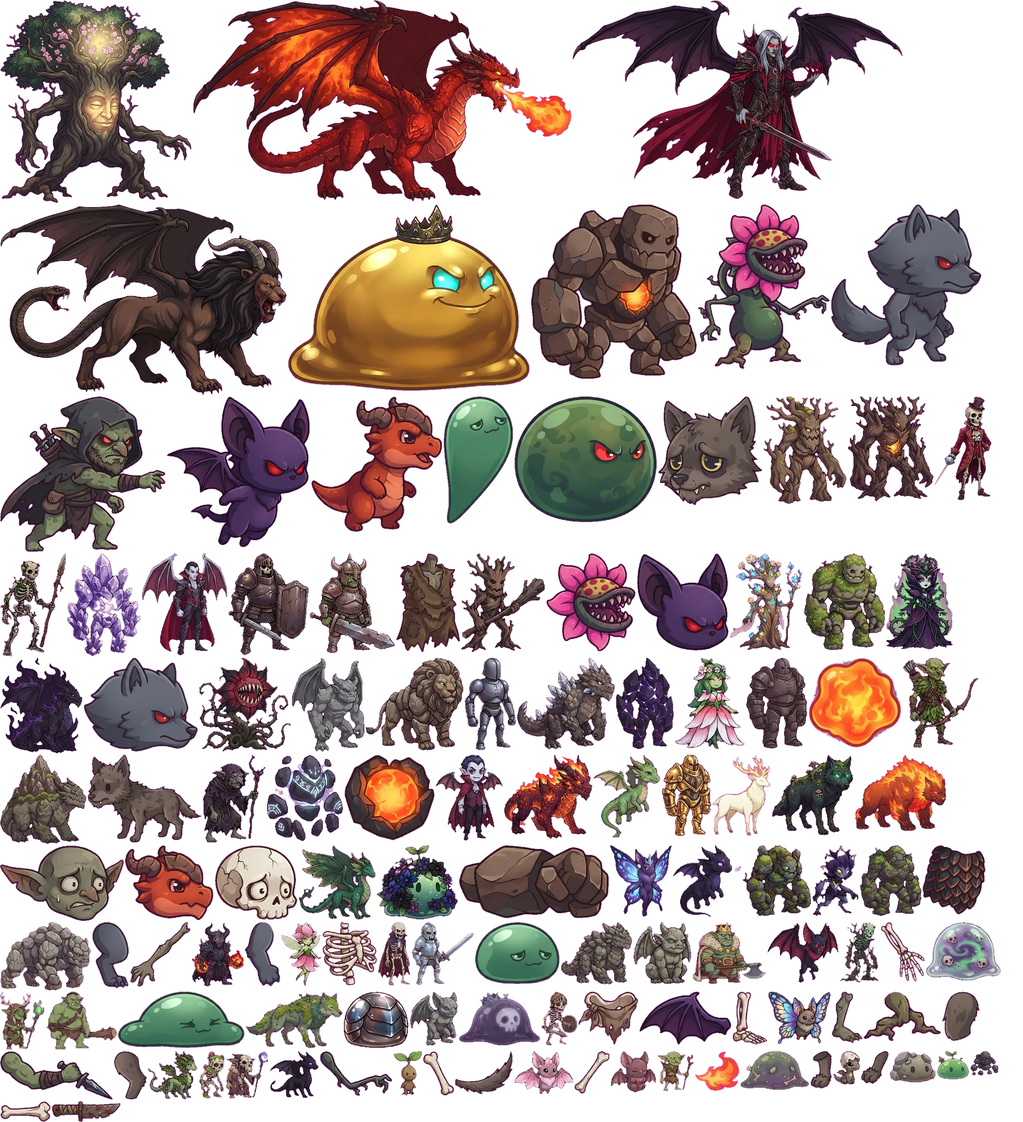
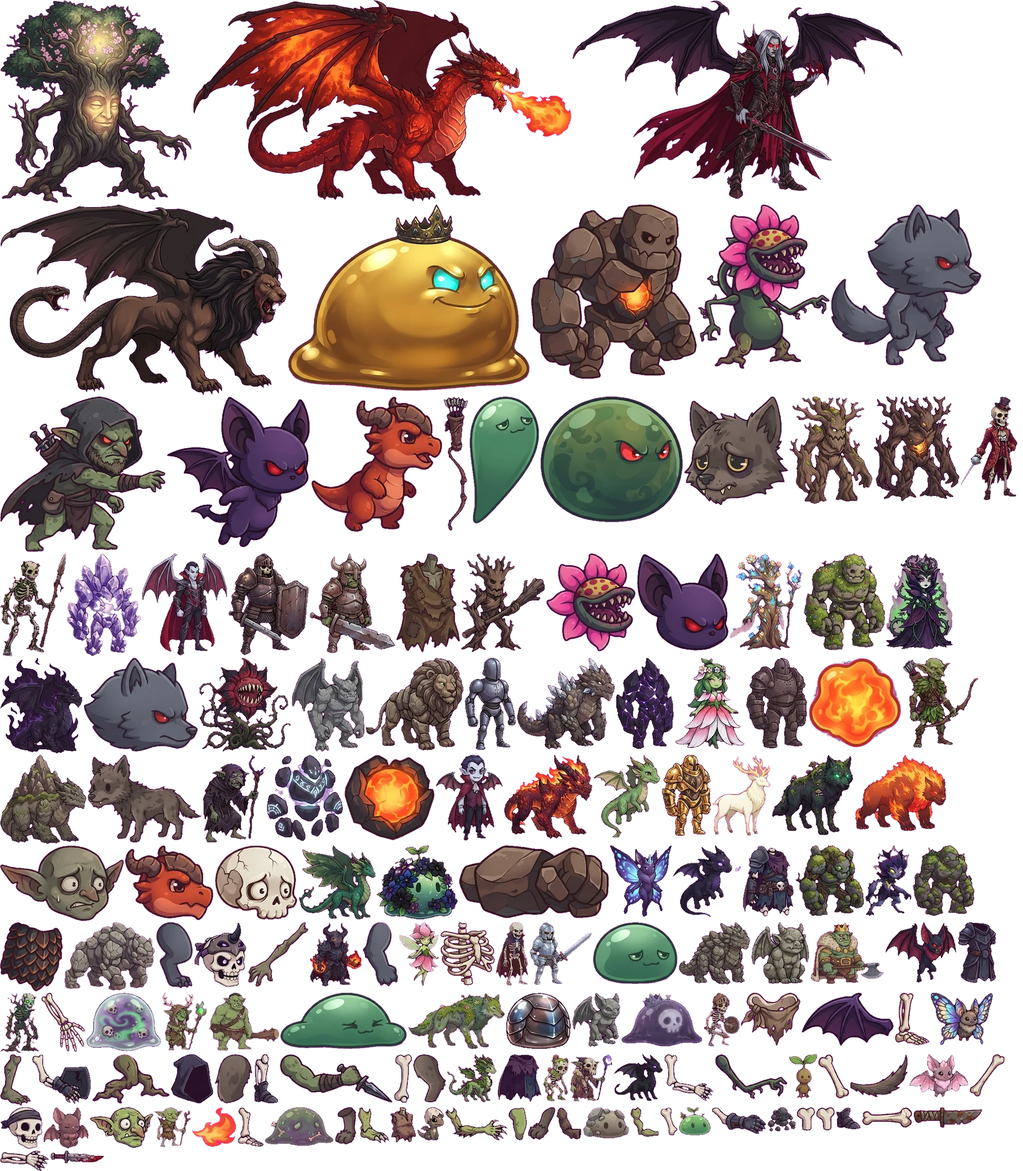
Bone to Beast: rigged part-based animation test (goblin, bone knight, moss skeleton, blood bones)
Claude-Session: https://claude.ai/code/session_01VuDiQoiwkAwkour2auYRX7

diff --git a/bone-to-beast/index.html b/bone-to-beast/index.html
@@ -154,6 +154,7 @@ var FD={
  glRune:['fGlRune',84,'Rune Golem','魔導ゴーレム','Fires rune bolts. Skill: Inferno.','ルーンの魔法弾。スキル：火柱の連撃',230,'Inferno',{ranged:true,shot:'magic',dmg:28,rate:0.22,armor:0.5,life:0.1,maxJumps:2}],
  bsFire:['fBsFire',50,'Flame Beast','火の獣','Burning bites. Skill: Fire Breath.','燃える牙。スキル：火炎ブレス',50,'Fire Breath',{kind:'bite',dmg:20,rate:0.28,range:72,spd:310,burn:true}]};
 var FORMS={};for(var fk in FD){var d=FD[fk];FORMS[fk]={art:d[0],h:d[1],en:d[2],ja:d[3],den:d[4],dja:d[5],hp:d[6],skill:d[7],s:d[8]};}
+FORMS.skKnight.rig='A';FORMS.skKnight.h=70;FORMS.skMoss.rig='C';FORMS.skVamp.rig='D';
 ULTORDER.forEach(function(u){FORMS[u]={ult:true,hp:0};});
 var MIDD={slGrass:['fmSlBloom','Bloom Slime','花スライム'],slRock:['fmSlIron','Iron Slime','鉄スライム'],slZombie:['fmSlGhost','Ghost Slime','怨霊スライム'],skMoss:['fmSkSpear','Vine Spearman','ツタの骨槍兵'],skKnight:['fmSkHeavy','Heavy Bone Knight','骨の重騎士'],skVamp:['fmSkCount','Bone Count','骨の伯爵'],
  gbForest:['fmGbArcher','Goblin Archer','ゴブリン弓兵'],gbHob:['fmGbGeneral','Goblin General','ゴブリン将軍'],gbShaman:['fmGbSorc','Goblin Sorcerer','闇の魔術師ゴブリン'],bsForest:['fmBsWolf','Moss Wolf','苔の大狼'],bsRock:['fmBsLion','Stone Lion','岩の獅子'],bsFire:['fmBsDrag','Flame Drake','炎の竜獣'],
@@ -418,7 +419,7 @@ function rr(g,x,y,w,h,r){g.beginPath();g.moveTo(x+r,y);g.arcTo(x+w,y,x+w,y+h,r);
 function limb(g,x1,y1,x2,y2,w,col,joint){g.strokeStyle=col;g.lineWidth=w;g.lineCap='round';g.beginPath();g.moveTo(x1,y1);g.lineTo(x2,y2);g.stroke();if(joint){g.fillStyle=col;g.beginPath();g.arc(x1,y1,w*0.75,0,7);g.arc(x2,y2,w*0.75,0,7);g.fill();}}
 function shade(hex,a){var n=parseInt(hex.slice(1),16);return 'rgb('+[n>>16,(n>>8)&255,n&255].map(function(v){return Math.max(0,Math.min(255,v+a));}).join(',')+')';}
 // ======================= art (atlas) =======================
-var ATLAS={"uTree":[0,0,384,407],"uDragon":[386,0,758,404],"uVampire":[1146,0,661,399],"uChimera":[0,409,574,382],"uOrichalcum":[576,409,485,374],"eGolem":[1063,409,332,350],"ePlant":[1397,409,264,330],"eWolf":[1663,409,302,323],"eGoblin":[0,793,332,312],"eBat":[334,793,287,302],"eDrake":[623,793,263,272],"slTall":[888,793,140,255],"eSlime":[1030,793,285,252],"bsHead":[1317,793,209,218],"fPlTreant":[1528,793,167,216],"fGlTree":[1697,793,172,210],"fmSkCount":[1871,793,114,208],"fmSkSpear":[0,1107,132,207],"fmGlAmethyst":[134,1107,148,206],"fBtLord":[284,1107,171,205],"fmSkHeavy":[457,1107,161,204],"fmGbGeneral":[620,1107,171,200],"gbTorso":[793,1107,128,199],"fmPlWarrior":[923,1107,168,198],"plantHead":[1093,1107,180,197],"batHead":[1275,1107,184,195],"fPlWarden":[1461,1107,146,194],"fmGlMoss":[1609,1107,163,194],"fmPlQueen":[1774,1107,134,193],"fDrShadow":[0,1316,165,192],"wolfHead":[167,1316,229,188],"fPlBloom":[398,1316,184,188],"fBtFiend":[584,1316,146,188],"fmBsLion":[732,1316,196,186],"fmGlSteel":[930,1316,103,185],"fmDrRock":[1035,1316,196,184],"fGlObs":[1233,1316,116,183],"fmPlPriest":[1351,1316,140,183],"fGlIron":[1493,1316,123,182],"slimeCore":[1618,1316,187,181],"fmGbArcher":[1807,1316,152,181],"fDrEarth":[0,1510,173,179],"bsFull":[175,1510,229,176],"fmGbSorc":[406,1510,126,176],"fGlRune":[534,1510,153,173],"golemCore":[689,1510,181,172],"fmBtVamp":[872,1510,135,172],"fmBsDrag":[1009,1510,177,169],"fmDrYoung":[1188,1510,134,166],"fGlOri":[1324,1510,100,163],"fBsSacred":[1426,1510,117,163],"fmBsWolf":[1545,1510,164,162],"fBsFire":[1711,1510,184,153],"gbHead":[0,1691,248,152],"drakeHead":[250,1691,178,151],"skSkull":[430,1691,166,150],"fDrEmerald":[598,1691,154,149],"fmSlBloom":[754,1691,163,149],"golemFist":[919,1691,300,147,12.1,72.6,289.2,79.2],"fBtMonarch":[1221,1691,124,144],"fmDrBlack":[1347,1691,137,144],"fPlRoot":[1486,1691,138,142],"fPlShade":[1626,1691,93,142],"fGlMoss":[1721,1691,124,142],"drakeScales":[1847,1691,126,139],"fBsRock":[0,1845,182,137],"wolfLeg":[184,1845,74,133,26.5,4.0,54.5,126.5],"gbFore":[260,1845,122,130,113.1,7.4,8.5,118.8],"fGbDemon":[384,1845,104,130],"wolfArm":[490,1845,71,129,32.6,4.2,50.4,121.8],"fPlPetal":[563,1845,80,128],"skRibs":[645,1845,110,127],"fSkVamp":[757,1845,65,127],"fSkSteel":[824,1845,125,126],"slRest":[951,1845,170,125],"fDrRock":[1123,1845,143,125],"fmBtGarg":[1268,1845,116,124],"fGbKing":[1386,1845,148,124],"fBtBlood":[1536,1845,143,122],"fSkWraith":[1681,1845,80,121],"skFore":[1763,1845,89,119,10.1,6.5,74.1,108.9],"fmSlGhost":[1854,1845,150,118],"fGbDruid":[0,1984,90,117],"fGbHob":[92,1984,142,117],"slFlat":[236,1984,254,114],"fBsForest":[492,1984,194,114],"fmSlIron":[688,1984,130,113],"fBtGarg":[820,1984,97,109],"fSlDeath":[919,1984,162,108],"fSkKnight":[1083,1984,73,108],"skPelvis":[1158,1984,120,107],"batWing":[1280,1984,184,107],"skShin":[1466,1984,70,106,20.7,3.0,53.8,101.3],"fmBtButter":[1538,1984,125,105],"gbShin":[1665,1984,62,104,27.3,3.6,39.8,97.9],"plantRoots":[1729,1984,155,100],"bsBackU":[1886,1984,75,99,49.3,4.9,21.0,93.2],"goblinArm":[0,2103,226,98,6.0,19.2,211.4,86.9],"bsFrontU":[228,2103,66,97,15.7,4.4,38.2,92.4],"fDrForest":[296,2103,99,97],"fSkMoss":[397,2103,53,95],"fGbShaman":[452,2103,86,95],"fDrBlack":[540,2103,98,94],"plantVine":[640,2103,146,90,4.4,9.7,136.3,67.9],"stSprout":[788,2103,57,90],"skThigh":[847,2103,62,89,10.1,6.2,52.8,83.4],"bsTail":[911,2103,116,87],"fBtFairy":[1029,2103,119,87],"skUpper":[1150,2103,71,86,63.5,5.3,7.7,78.3],"stBat":[1223,2103,91,83],"fGbForest":[1316,2103,73,81],"fire":[1391,2103,89,80],"fSlZombie":[1482,2103,138,79],"bsBackL":[1622,2103,44,75,29.2,2.4,15.6,71.4],"stHatch":[1668,2103,54,68],"bsFrontL":[1724,2103,55,66,49.9,3.1,6.6,58.9],"fSlRock":[1781,2103,93,63],"fSlGrass":[1876,2103,64,57],"stPebble":[1942,2103,57,49],"skClub":[0,2203,102,42,3.5,24.2,98.1,19.7],"gbKnife":[104,2203,138,42,3.0,17.2,130.5,10.1]},ART=new Image(),ARTOK=false;ART.src='art/atlas.webp?v=6';
+var ATLAS={"uTree":[0,0,384,407],"uDragon":[386,0,758,404],"uVampire":[1146,0,661,399],"uChimera":[0,409,574,382],"uOrichalcum":[576,409,485,374],"eGolem":[1063,409,332,350],"ePlant":[1397,409,264,330],"eWolf":[1663,409,302,323],"eGoblin":[0,793,332,312],"eBat":[334,793,287,302],"eDrake":[623,793,263,272],"rC_bow":[888,793,50,269],"slTall":[940,793,140,255],"eSlime":[1082,793,285,252],"bsHead":[1369,793,209,218],"fPlTreant":[1580,793,167,216],"fGlTree":[1749,793,172,210],"fmSkCount":[1923,793,114,208],"fmSkSpear":[0,1107,132,207],"fmGlAmethyst":[134,1107,148,206],"fBtLord":[284,1107,171,205],"fmSkHeavy":[457,1107,161,204],"fmGbGeneral":[620,1107,171,200],"gbTorso":[793,1107,128,199],"fmPlWarrior":[923,1107,168,198],"plantHead":[1093,1107,180,197],"batHead":[1275,1107,184,195],"fPlWarden":[1461,1107,146,194],"fmGlMoss":[1609,1107,163,194],"fmPlQueen":[1774,1107,134,193],"fDrShadow":[0,1316,165,192],"wolfHead":[167,1316,229,188],"fPlBloom":[398,1316,184,188],"fBtFiend":[584,1316,146,188],"fmBsLion":[732,1316,196,186],"fmGlSteel":[930,1316,103,185],"fmDrRock":[1035,1316,196,184],"fGlObs":[1233,1316,116,183],"fmPlPriest":[1351,1316,140,183],"fGlIron":[1493,1316,123,182],"slimeCore":[1618,1316,187,181],"fmGbArcher":[1807,1316,152,181],"fDrEarth":[0,1510,173,179],"bsFull":[175,1510,229,176],"fmGbSorc":[406,1510,126,176],"fGlRune":[534,1510,153,173],"golemCore":[689,1510,181,172],"fmBtVamp":[872,1510,135,172],"fmBsDrag":[1009,1510,177,169],"fmDrYoung":[1188,1510,134,166],"fGlOri":[1324,1510,100,163],"fBsSacred":[1426,1510,117,163],"fmBsWolf":[1545,1510,164,162],"fBsFire":[1711,1510,184,153],"gbHead":[0,1691,248,152],"drakeHead":[250,1691,178,151],"skSkull":[430,1691,166,150],"fDrEmerald":[598,1691,154,149],"fmSlBloom":[754,1691,163,149],"golemFist":[919,1691,300,147,12.1,72.6,289.2,79.2],"fBtMonarch":[1221,1691,124,144],"fmDrBlack":[1347,1691,137,144],"rA_torso":[1486,1691,104,143],"fPlRoot":[1592,1691,138,142],"fPlShade":[1732,1691,93,142],"fGlMoss":[1827,1691,124,142],"drakeScales":[0,1845,126,139],"fBsRock":[128,1845,182,137],"wolfLeg":[312,1845,74,133,26.5,4.0,54.5,126.5],"rA_head":[388,1845,106,131],"gbFore":[496,1845,122,130,113.1,7.4,8.5,118.8],"fGbDemon":[620,1845,104,130],"wolfArm":[726,1845,71,129,32.6,4.2,50.4,121.8],"fPlPetal":[799,1845,80,128],"skRibs":[881,1845,110,127],"fSkVamp":[993,1845,65,127],"fSkSteel":[1060,1845,125,126],"slRest":[1187,1845,170,125],"fDrRock":[1359,1845,143,125],"fmBtGarg":[1504,1845,116,124],"fGbKing":[1622,1845,148,124],"fBtBlood":[1772,1845,143,122],"rD_torso":[1917,1845,78,122],"fSkWraith":[0,1986,80,121],"skFore":[82,1986,89,119,10.1,6.5,74.1,108.9],"fmSlGhost":[173,1986,150,118],"fGbDruid":[325,1986,90,117],"fGbHob":[417,1986,142,117],"slFlat":[561,1986,254,114],"fBsForest":[817,1986,194,114],"fmSlIron":[1013,1986,130,113],"fBtGarg":[1145,1986,97,109],"fSlDeath":[1244,1986,162,108],"fSkKnight":[1408,1986,73,108],"skPelvis":[1483,1986,120,107],"batWing":[1605,1986,184,107],"skShin":[1791,1986,70,106,20.7,3.0,53.8,101.3],"fmBtButter":[1863,1986,125,105],"gbShin":[0,2109,62,104,27.3,3.6,39.8,97.9],"rA_arm2":[64,2109,119,101,12.0,7.4,113.6,59.2],"plantRoots":[185,2109,155,100],"rD_head":[342,2109,86,100],"bsBackU":[430,2109,75,99,49.3,4.9,21.0,93.2],"rA_shin":[507,2109,51,99,23.0,4.4,31.5,95.1],"goblinArm":[560,2109,226,98,6.0,19.2,211.4,86.9],"rA_thigh":[788,2109,37,98,21.2,3.1,18.8,93.5],"bsFrontU":[827,2109,66,97,15.7,4.4,38.2,92.4],"fDrForest":[895,2109,99,97],"rC_torso":[996,2109,88,97],"fSkMoss":[1086,2109,53,95],"fGbShaman":[1141,2109,86,95],"fDrBlack":[1229,2109,98,94],"rA_arm":[1329,2109,100,94,12.7,3.6,91.4,75.1],"plantVine":[1431,2109,146,90,4.4,9.7,136.3,67.9],"stSprout":[1579,2109,57,90],"skThigh":[1638,2109,62,89,10.1,6.2,52.8,83.4],"bsTail":[1702,2109,116,87],"fBtFairy":[1820,2109,119,87],"skUpper":[1941,2109,71,86,63.5,5.3,7.7,78.3],"rC_head":[0,2215,85,84],"stBat":[87,2215,91,83],"rB_head":[180,2215,127,82],"fGbForest":[309,2215,73,81],"fire":[384,2215,89,80],"rC_shin":[475,2215,53,80,9.1,4.2,40.7,76.0],"fSlZombie":[530,2215,138,79],"bsBackL":[670,2215,44,75,29.2,2.4,15.6,71.4],"rB_shin":[716,2215,63,73,10.2,5.5,42.6,66.1],"rB_torso":[781,2215,52,71],"stHatch":[835,2215,54,68],"rB_fore":[891,2215,125,67,5.4,12.5,116.1,46.0],"rB_thigh":[1018,2215,37,67,20.5,3.3,21.7,62.5],"bsFrontL":[1057,2215,55,66,49.9,3.1,6.6,58.9],"rD_upper":[1114,2215,51,65,9.6,4.4,37.0,61.1],"fSlRock":[1167,2215,93,63],"rB_upper":[1262,2215,58,60,12.0,3.8,52.5,53.7],"rC_upper":[1322,2215,35,58,14.2,3.4,22.3,53.9],"fSlGrass":[1359,2215,64,57],"rD_fore":[1425,2215,109,54,5.7,6.9,103.1,36.0],"stPebble":[1536,2215,57,49],"rD_thigh":[1595,2215,37,48,21.2,2.5,19.7,44.5],"rC_thigh":[1634,2215,38,47,21.6,2.4,21.6,43.8],"rD_shin":[1674,2215,49,45,21.8,3.7,33.6,41.7],"skClub":[1725,2215,102,42,3.5,24.2,98.1,19.7],"gbKnife":[1829,2215,138,42,3.0,17.2,130.5,10.1],"rC_fore":[0,2301,98,42,4.3,16.7,90.3,19.9],"rB_knife":[100,2301,109,28,3.7,12.1,101.7,14.2]},ART=new Image(),ARTOK=false;ART.src='art/atlas.webp?v=7';
 function aspr(k){return ATLAS[k];}
 // draw a limb image so that its end points land on A and B
 function seg(g,k,ax,ay,bx,by,ext){var a=ATLAS[k];if(!a||!ARTOK)return;var x0=a[4],y0=a[5],x1=a[6],y1=a[7],L0=Math.hypot(x1-x0,y1-y0),L=Math.hypot(bx-ax,by-ay)||0.01,s=L/L0*(ext||1);
@@ -431,7 +432,7 @@ function sprDef(g,k,x,y,h,fx,fy,lean,leg,ph,wob){var a=ATLAS[k];if(!a||!ARTOK)re
 function tube(g,ax,ay,bx,by,w,col){g.lineCap='round';g.strokeStyle='#2b2620';g.lineWidth=w+1.6;g.beginPath();g.moveTo(ax,ay);g.lineTo(bx,by);g.stroke();g.strokeStyle=col;g.lineWidth=w;g.stroke();}
 var HEADS={wolfHead:[30,0.45,0.6],batHead:[30,0.5,0.6],plantHead:[33,0.45,0.6],drakeHead:[27,0.4,0.6]};
 var CORES={golemCore:16,slimeCore:15,drakeScales:20};
-function drawBody(g,p,P,st,u){if(!u&&START_ART[st]){var SA=START_ART[st];drawArt(g,p,SA[0],SA[1],st==='pebble',st==='hatch');return;}if(u&&FORMS[u]&&!FORMS[u].ult){drawForm(g,p,u);return;}if(u){drawUlt(g,p,u,false);return;}if(st==='beast'){drawQuad(g,p,P);return;}if(st==='slime'){drawSlime(g,p,P);return;}drawHumanoid(g,p,P,st);}
+function drawBody(g,p,P,st,u){if(!u&&st==='goblin'){drawRig(g,p,'B',60);return;}if(!u&&START_ART[st]){var SA=START_ART[st];drawArt(g,p,SA[0],SA[1],st==='pebble',st==='hatch');return;}if(u&&FORMS[u]&&!FORMS[u].ult){drawForm(g,p,u);return;}if(u){drawUlt(g,p,u,false);return;}if(st==='beast'){drawQuad(g,p,P);return;}if(st==='slime'){drawSlime(g,p,P);return;}drawHumanoid(g,p,P,st);}
 function shadow(g,w){g.fillStyle='rgba(0,0,0,.35)';g.beginPath();g.ellipse(0,0,w,4,0,0,7);g.fill();}
 function wingsArt(g,x,y,glide,ground,sc){var fl=glide?0.15:Math.sin(performance.now()/90)*0.35*(ground?0.3:1);sc=sc||1;
   spr(g,'batWing',x+3,y,24*sc,0.9,0.3,-0.25-fl,1,1);spr(g,'batWing',x,y-2,26*sc,0.9,0.3,0.1+fl*0.6,1,1);}
@@ -462,6 +463,22 @@ function drawHumanoid(g,p,P,st){var h=62,wk=p.walk||0,run=p.ground?Math.sin(wk*2
   if(P.core)spr(g,P.core,1,shY+7,CORES[P.core],0.5,0.5);
   if(P.head)headArt(g,P.head,2,headY);else if(gob)spr(g,'gbHead',2,headY+2,22,0.5,0.6);else spr(g,'skSkull',2,headY+1,27,0.5,0.62);
   arm(1);g.restore();}
+var RIGS={A:{head:['rA_head',27],torso:['rA_torso',31],arm:'rA_arm',arm2:'rA_arm2',thigh:'rA_thigh',shin:'rA_shin'},
+ B:{head:['rB_head',22],torso:['rB_torso',22],upper:'rB_upper',fore:'rB_fore',thigh:'rB_thigh',shin:'rB_shin',knife:'rB_knife'},
+ C:{head:['rC_head',23],torso:['rC_torso',27],upper:'rC_upper',fore:'rC_fore',thigh:'rC_thigh',shin:'rC_shin',bow:'rC_bow'},
+ D:{head:['rD_head',26],torso:['rD_torso',29],upper:'rD_upper',fore:'rD_fore',thigh:'rD_thigh',boot:'rD_shin'}};
+function drawRig(g,p,id,H){var Rg=RIGS[id],wk=p.walk||0,mv=Math.min(1,Math.abs(p.vx||0)/120);p._mv=(p._mv||0)+(mv-(p._mv||0))*0.15;mv=p._mv;
+  var t=performance.now()/1000,run=p.ground?Math.sin(wk*2)*mv:0.6,sw=p.swing>0?1-p.swing/0.2:0,bob=p.ground?(1-Math.cos(wk*4))*0.6*mv+Math.sin(t*2.2)*0.4*(1-mv):0;
+  g.save();g.translate(p.x,p.y);g.scale(p.face*(H/66),H/66);shadow(g,15);g.translate(0,-bob);var hipY=-25,shY=-42,headY=-55;
+  function leg(i){var s=i?1:-1,a=run*0.65*s,kx=Math.sin(a)*11,ky=hipY+11,fx=kx+Math.sin(a-0.5)*10,fy=bob;if(!p.ground){kx=i?7:-3;ky=hipY+9;fx=kx-4;fy=hipY+22;}
+    if(Rg.boot){seg(g,Rg.thigh,i?1:-1,hipY,kx,ky);seg(g,Rg.thigh,kx,ky,fx+1,fy-5);spr(g,Rg.boot,fx+2,fy+1,10,0.45,0.95);return;}seg(g,Rg.thigh,i?1:-1,hipY,kx,ky);seg(g,Rg.shin,kx,ky,fx+2,fy);}
+  var swingA=p.swing>0?(-1.9+sw*3.0):Math.sin(wk*2)*0.45*mv+Math.sin(t*2.2)*0.05;
+  function arm(i){var sx=i?2:-2,sy=shY,a=i?swingA:-swingA*0.6+0.25;
+    if(Rg.arm){var k=i?Rg.arm2:Rg.arm;seg(g,k,sx,sy,sx+Math.sin(a+0.3)*19,sy+Math.cos(a+0.3)*19);return;}
+    var ex=sx+Math.sin(a)*10,ey=sy+Math.cos(a)*10,hx=ex+Math.sin(a+0.6)*12,hy=ey+Math.cos(a+0.6)*12;seg(g,Rg.upper,sx,sy,ex,ey);seg(g,Rg.fore,ex,ey,hx,hy);
+    if(i&&Rg.knife){var an=a+0.6;seg(g,Rg.knife,hx,hy,hx+Math.sin(an+1.3)*15,hy+Math.cos(an+1.3)*15);}
+    if(i&&Rg.bow)spr(g,Rg.bow,hx,hy,34,0.5,0.5,0.1);}
+  arm(0);leg(0);leg(1);spr(g,Rg.torso[0],0,shY-5,Rg.torso[1],0.5,0.04);spr(g,Rg.head[0],2,headY+Math.sin(t*2.2)*0.4,Rg.head[1],0.5,0.6);arm(1);g.restore();}
 function drawSlime(g,p,P){var t=performance.now()/1000,wk=p.walk||0,lift=P.legs?14:0;g.save();g.translate(p.x,p.y);g.scale(p.face,1);shadow(g,18);
   if(P.legs==='plantLegs')spr(g,'plantRoots',0,-15,18,0.5,0.05);
   else if(P.legs==='wolfLegs'){var r=p.ground?Math.sin(wk*2)*0.5:0.4;seg(g,'wolfLeg',-5,-16,-5+Math.sin(r)*10,0);seg(g,'wolfLeg',5,-16,5-Math.sin(r)*10,0);}
@@ -485,7 +502,7 @@ function animSprite(g,p,art,h,fx,fy,quad,t,wk){var mv=Math.min(1,Math.abs(p.vx||
   p._mv=(p._mv||0)+(mv-(p._mv||0))*0.12;mv=p._mv;
   var bob=p.ground?(1-Math.cos(wk*(quad?4.4:3.6)))*0.5*(quad?2:1.6)*mv+Math.sin(t*2.2)*0.6*(1-mv):0,br=1+Math.sin(t*2.2)*0.012*(1-mv);
   g.translate(sw*h*0.06,-bob);if(p.landT>0){var lk=p.landT/0.14;g.scale(1+0.05*lk,1-0.05*lk);}
-  g.scale(1+sw*0.03,br);spr(g,art,0,1,h,fx,fy);}function drawForm(g,p,id){var F=FORMS[id];drawArt(g,p,F.art,F.h,id.indexOf('sl')===0,id.indexOf('bs')===0||id.indexOf('dr')===0);}
+  g.scale(1+sw*0.03,br);spr(g,art,0,1,h,fx,fy);}function drawForm(g,p,id){var F=FORMS[id];if(F.rig){drawRig(g,p,F.rig,F.h);return;}drawArt(g,p,F.art,F.h,id.indexOf('sl')===0,id.indexOf('bs')===0||id.indexOf('dr')===0);}
 function drawArt(g,p,art,h,sl,quad){var F={art:art,h:h},t=performance.now()/1000,wk=p.walk||0;g.save();g.translate(p.x,p.y);g.scale(p.face,1);
   var a=ATLAS[F.art];shadow(g,Math.min(36,F.h*(a?a[2]/a[3]:1)*0.42));
   if(sl){var q=!p.ground?(p.vy<0?1.18:0.95):p.landT>0?0.72:1+Math.sin(t*6+wk*3)*0.06;p._q=(p._q||1)+(q-(p._q||1))*0.25;g.scale(1/p._q,p._q);spr(g,F.art,0,1,F.h,0.5,1);}

diff --git a/bone-to-beast/survivors.html b/bone-to-beast/survivors.html
@@ -152,6 +152,7 @@ var FD={
  glRune:['fGlRune',84,'Rune Golem','魔導ゴーレム','Fires rune bolts. Skill: Inferno.','ルーンの魔法弾。スキル：火柱の連撃',230,'Inferno',{ranged:true,shot:'magic',dmg:28,rate:0.22,armor:0.5,life:0.1,maxJumps:2}],
  bsFire:['fBsFire',50,'Flame Beast','火の獣','Burning bites. Skill: Fire Breath.','燃える牙。スキル：火炎ブレス',50,'Fire Breath',{kind:'bite',dmg:20,rate:0.28,range:72,spd:310,burn:true}]};
 var FORMS={};for(var fk in FD){var d=FD[fk];FORMS[fk]={art:d[0],h:d[1],en:d[2],ja:d[3],den:d[4],dja:d[5],hp:d[6],skill:d[7],s:d[8]};}
+FORMS.skKnight.rig='A';FORMS.skKnight.h=70;FORMS.skMoss.rig='C';FORMS.skVamp.rig='D';
 ULTORDER.forEach(function(u){FORMS[u]={ult:true,hp:0};});
 var MIDD={slGrass:['fmSlBloom','Bloom Slime','花スライム'],slRock:['fmSlIron','Iron Slime','鉄スライム'],slZombie:['fmSlGhost','Ghost Slime','怨霊スライム'],skMoss:['fmSkSpear','Vine Spearman','ツタの骨槍兵'],skKnight:['fmSkHeavy','Heavy Bone Knight','骨の重騎士'],skVamp:['fmSkCount','Bone Count','骨の伯爵'],
  gbForest:['fmGbArcher','Goblin Archer','ゴブリン弓兵'],gbHob:['fmGbGeneral','Goblin General','ゴブリン将軍'],gbShaman:['fmGbSorc','Goblin Sorcerer','闇の魔術師ゴブリン'],bsForest:['fmBsWolf','Moss Wolf','苔の大狼'],bsRock:['fmBsLion','Stone Lion','岩の獅子'],bsFire:['fmBsDrag','Flame Drake','炎の竜獣'],
@@ -273,7 +274,7 @@ function rr(g,x,y,w,h,r){g.beginPath();g.moveTo(x+r,y);g.arcTo(x+w,y,x+w,y+h,r);
 function limb(g,x1,y1,x2,y2,w,col,joint){g.strokeStyle=col;g.lineWidth=w;g.lineCap='round';g.beginPath();g.moveTo(x1,y1);g.lineTo(x2,y2);g.stroke();if(joint){g.fillStyle=col;g.beginPath();g.arc(x1,y1,w*0.75,0,7);g.arc(x2,y2,w*0.75,0,7);g.fill();}}
 function shade(hex,a){var n=parseInt(hex.slice(1),16);return 'rgb('+[n>>16,(n>>8)&255,n&255].map(function(v){return Math.max(0,Math.min(255,v+a));}).join(',')+')';}
 // ======================= art (atlas) =======================
-var ATLAS={"uTree":[0,0,384,407],"uDragon":[386,0,758,404],"uVampire":[1146,0,661,399],"uChimera":[0,409,574,382],"uOrichalcum":[576,409,485,374],"eGolem":[1063,409,332,350],"ePlant":[1397,409,264,330],"eWolf":[1663,409,302,323],"eGoblin":[0,793,332,312],"eBat":[334,793,287,302],"eDrake":[623,793,263,272],"slTall":[888,793,140,255],"eSlime":[1030,793,285,252],"bsHead":[1317,793,209,218],"fPlTreant":[1528,793,167,216],"fGlTree":[1697,793,172,210],"fmSkCount":[1871,793,114,208],"fmSkSpear":[0,1107,132,207],"fmGlAmethyst":[134,1107,148,206],"fBtLord":[284,1107,171,205],"fmSkHeavy":[457,1107,161,204],"fmGbGeneral":[620,1107,171,200],"gbTorso":[793,1107,128,199],"fmPlWarrior":[923,1107,168,198],"plantHead":[1093,1107,180,197],"batHead":[1275,1107,184,195],"fPlWarden":[1461,1107,146,194],"fmGlMoss":[1609,1107,163,194],"fmPlQueen":[1774,1107,134,193],"fDrShadow":[0,1316,165,192],"wolfHead":[167,1316,229,188],"fPlBloom":[398,1316,184,188],"fBtFiend":[584,1316,146,188],"fmBsLion":[732,1316,196,186],"fmGlSteel":[930,1316,103,185],"fmDrRock":[1035,1316,196,184],"fGlObs":[1233,1316,116,183],"fmPlPriest":[1351,1316,140,183],"fGlIron":[1493,1316,123,182],"slimeCore":[1618,1316,187,181],"fmGbArcher":[1807,1316,152,181],"fDrEarth":[0,1510,173,179],"bsFull":[175,1510,229,176],"fmGbSorc":[406,1510,126,176],"fGlRune":[534,1510,153,173],"golemCore":[689,1510,181,172],"fmBtVamp":[872,1510,135,172],"fmBsDrag":[1009,1510,177,169],"fmDrYoung":[1188,1510,134,166],"fGlOri":[1324,1510,100,163],"fBsSacred":[1426,1510,117,163],"fmBsWolf":[1545,1510,164,162],"fBsFire":[1711,1510,184,153],"gbHead":[0,1691,248,152],"drakeHead":[250,1691,178,151],"skSkull":[430,1691,166,150],"fDrEmerald":[598,1691,154,149],"fmSlBloom":[754,1691,163,149],"golemFist":[919,1691,300,147,12.1,72.6,289.2,79.2],"fBtMonarch":[1221,1691,124,144],"fmDrBlack":[1347,1691,137,144],"fPlRoot":[1486,1691,138,142],"fPlShade":[1626,1691,93,142],"fGlMoss":[1721,1691,124,142],"drakeScales":[1847,1691,126,139],"fBsRock":[0,1845,182,137],"wolfLeg":[184,1845,74,133,26.5,4.0,54.5,126.5],"gbFore":[260,1845,122,130,113.1,7.4,8.5,118.8],"fGbDemon":[384,1845,104,130],"wolfArm":[490,1845,71,129,32.6,4.2,50.4,121.8],"fPlPetal":[563,1845,80,128],"skRibs":[645,1845,110,127],"fSkVamp":[757,1845,65,127],"fSkSteel":[824,1845,125,126],"slRest":[951,1845,170,125],"fDrRock":[1123,1845,143,125],"fmBtGarg":[1268,1845,116,124],"fGbKing":[1386,1845,148,124],"fBtBlood":[1536,1845,143,122],"fSkWraith":[1681,1845,80,121],"skFore":[1763,1845,89,119,10.1,6.5,74.1,108.9],"fmSlGhost":[1854,1845,150,118],"fGbDruid":[0,1984,90,117],"fGbHob":[92,1984,142,117],"slFlat":[236,1984,254,114],"fBsForest":[492,1984,194,114],"fmSlIron":[688,1984,130,113],"fBtGarg":[820,1984,97,109],"fSlDeath":[919,1984,162,108],"fSkKnight":[1083,1984,73,108],"skPelvis":[1158,1984,120,107],"batWing":[1280,1984,184,107],"skShin":[1466,1984,70,106,20.7,3.0,53.8,101.3],"fmBtButter":[1538,1984,125,105],"gbShin":[1665,1984,62,104,27.3,3.6,39.8,97.9],"plantRoots":[1729,1984,155,100],"bsBackU":[1886,1984,75,99,49.3,4.9,21.0,93.2],"goblinArm":[0,2103,226,98,6.0,19.2,211.4,86.9],"bsFrontU":[228,2103,66,97,15.7,4.4,38.2,92.4],"fDrForest":[296,2103,99,97],"fSkMoss":[397,2103,53,95],"fGbShaman":[452,2103,86,95],"fDrBlack":[540,2103,98,94],"plantVine":[640,2103,146,90,4.4,9.7,136.3,67.9],"stSprout":[788,2103,57,90],"skThigh":[847,2103,62,89,10.1,6.2,52.8,83.4],"bsTail":[911,2103,116,87],"fBtFairy":[1029,2103,119,87],"skUpper":[1150,2103,71,86,63.5,5.3,7.7,78.3],"stBat":[1223,2103,91,83],"fGbForest":[1316,2103,73,81],"fire":[1391,2103,89,80],"fSlZombie":[1482,2103,138,79],"bsBackL":[1622,2103,44,75,29.2,2.4,15.6,71.4],"stHatch":[1668,2103,54,68],"bsFrontL":[1724,2103,55,66,49.9,3.1,6.6,58.9],"fSlRock":[1781,2103,93,63],"fSlGrass":[1876,2103,64,57],"stPebble":[1942,2103,57,49],"skClub":[0,2203,102,42,3.5,24.2,98.1,19.7],"gbKnife":[104,2203,138,42,3.0,17.2,130.5,10.1]},ART=new Image(),ARTOK=false;ART.src='art/atlas.webp?v=6';
+var ATLAS={"uTree":[0,0,384,407],"uDragon":[386,0,758,404],"uVampire":[1146,0,661,399],"uChimera":[0,409,574,382],"uOrichalcum":[576,409,485,374],"eGolem":[1063,409,332,350],"ePlant":[1397,409,264,330],"eWolf":[1663,409,302,323],"eGoblin":[0,793,332,312],"eBat":[334,793,287,302],"eDrake":[623,793,263,272],"rC_bow":[888,793,50,269],"slTall":[940,793,140,255],"eSlime":[1082,793,285,252],"bsHead":[1369,793,209,218],"fPlTreant":[1580,793,167,216],"fGlTree":[1749,793,172,210],"fmSkCount":[1923,793,114,208],"fmSkSpear":[0,1107,132,207],"fmGlAmethyst":[134,1107,148,206],"fBtLord":[284,1107,171,205],"fmSkHeavy":[457,1107,161,204],"fmGbGeneral":[620,1107,171,200],"gbTorso":[793,1107,128,199],"fmPlWarrior":[923,1107,168,198],"plantHead":[1093,1107,180,197],"batHead":[1275,1107,184,195],"fPlWarden":[1461,1107,146,194],"fmGlMoss":[1609,1107,163,194],"fmPlQueen":[1774,1107,134,193],"fDrShadow":[0,1316,165,192],"wolfHead":[167,1316,229,188],"fPlBloom":[398,1316,184,188],"fBtFiend":[584,1316,146,188],"fmBsLion":[732,1316,196,186],"fmGlSteel":[930,1316,103,185],"fmDrRock":[1035,1316,196,184],"fGlObs":[1233,1316,116,183],"fmPlPriest":[1351,1316,140,183],"fGlIron":[1493,1316,123,182],"slimeCore":[1618,1316,187,181],"fmGbArcher":[1807,1316,152,181],"fDrEarth":[0,1510,173,179],"bsFull":[175,1510,229,176],"fmGbSorc":[406,1510,126,176],"fGlRune":[534,1510,153,173],"golemCore":[689,1510,181,172],"fmBtVamp":[872,1510,135,172],"fmBsDrag":[1009,1510,177,169],"fmDrYoung":[1188,1510,134,166],"fGlOri":[1324,1510,100,163],"fBsSacred":[1426,1510,117,163],"fmBsWolf":[1545,1510,164,162],"fBsFire":[1711,1510,184,153],"gbHead":[0,1691,248,152],"drakeHead":[250,1691,178,151],"skSkull":[430,1691,166,150],"fDrEmerald":[598,1691,154,149],"fmSlBloom":[754,1691,163,149],"golemFist":[919,1691,300,147,12.1,72.6,289.2,79.2],"fBtMonarch":[1221,1691,124,144],"fmDrBlack":[1347,1691,137,144],"rA_torso":[1486,1691,104,143],"fPlRoot":[1592,1691,138,142],"fPlShade":[1732,1691,93,142],"fGlMoss":[1827,1691,124,142],"drakeScales":[0,1845,126,139],"fBsRock":[128,1845,182,137],"wolfLeg":[312,1845,74,133,26.5,4.0,54.5,126.5],"rA_head":[388,1845,106,131],"gbFore":[496,1845,122,130,113.1,7.4,8.5,118.8],"fGbDemon":[620,1845,104,130],"wolfArm":[726,1845,71,129,32.6,4.2,50.4,121.8],"fPlPetal":[799,1845,80,128],"skRibs":[881,1845,110,127],"fSkVamp":[993,1845,65,127],"fSkSteel":[1060,1845,125,126],"slRest":[1187,1845,170,125],"fDrRock":[1359,1845,143,125],"fmBtGarg":[1504,1845,116,124],"fGbKing":[1622,1845,148,124],"fBtBlood":[1772,1845,143,122],"rD_torso":[1917,1845,78,122],"fSkWraith":[0,1986,80,121],"skFore":[82,1986,89,119,10.1,6.5,74.1,108.9],"fmSlGhost":[173,1986,150,118],"fGbDruid":[325,1986,90,117],"fGbHob":[417,1986,142,117],"slFlat":[561,1986,254,114],"fBsForest":[817,1986,194,114],"fmSlIron":[1013,1986,130,113],"fBtGarg":[1145,1986,97,109],"fSlDeath":[1244,1986,162,108],"fSkKnight":[1408,1986,73,108],"skPelvis":[1483,1986,120,107],"batWing":[1605,1986,184,107],"skShin":[1791,1986,70,106,20.7,3.0,53.8,101.3],"fmBtButter":[1863,1986,125,105],"gbShin":[0,2109,62,104,27.3,3.6,39.8,97.9],"rA_arm2":[64,2109,119,101,12.0,7.4,113.6,59.2],"plantRoots":[185,2109,155,100],"rD_head":[342,2109,86,100],"bsBackU":[430,2109,75,99,49.3,4.9,21.0,93.2],"rA_shin":[507,2109,51,99,23.0,4.4,31.5,95.1],"goblinArm":[560,2109,226,98,6.0,19.2,211.4,86.9],"rA_thigh":[788,2109,37,98,21.2,3.1,18.8,93.5],"bsFrontU":[827,2109,66,97,15.7,4.4,38.2,92.4],"fDrForest":[895,2109,99,97],"rC_torso":[996,2109,88,97],"fSkMoss":[1086,2109,53,95],"fGbShaman":[1141,2109,86,95],"fDrBlack":[1229,2109,98,94],"rA_arm":[1329,2109,100,94,12.7,3.6,91.4,75.1],"plantVine":[1431,2109,146,90,4.4,9.7,136.3,67.9],"stSprout":[1579,2109,57,90],"skThigh":[1638,2109,62,89,10.1,6.2,52.8,83.4],"bsTail":[1702,2109,116,87],"fBtFairy":[1820,2109,119,87],"skUpper":[1941,2109,71,86,63.5,5.3,7.7,78.3],"rC_head":[0,2215,85,84],"stBat":[87,2215,91,83],"rB_head":[180,2215,127,82],"fGbForest":[309,2215,73,81],"fire":[384,2215,89,80],"rC_shin":[475,2215,53,80,9.1,4.2,40.7,76.0],"fSlZombie":[530,2215,138,79],"bsBackL":[670,2215,44,75,29.2,2.4,15.6,71.4],"rB_shin":[716,2215,63,73,10.2,5.5,42.6,66.1],"rB_torso":[781,2215,52,71],"stHatch":[835,2215,54,68],"rB_fore":[891,2215,125,67,5.4,12.5,116.1,46.0],"rB_thigh":[1018,2215,37,67,20.5,3.3,21.7,62.5],"bsFrontL":[1057,2215,55,66,49.9,3.1,6.6,58.9],"rD_upper":[1114,2215,51,65,9.6,4.4,37.0,61.1],"fSlRock":[1167,2215,93,63],"rB_upper":[1262,2215,58,60,12.0,3.8,52.5,53.7],"rC_upper":[1322,2215,35,58,14.2,3.4,22.3,53.9],"fSlGrass":[1359,2215,64,57],"rD_fore":[1425,2215,109,54,5.7,6.9,103.1,36.0],"stPebble":[1536,2215,57,49],"rD_thigh":[1595,2215,37,48,21.2,2.5,19.7,44.5],"rC_thigh":[1634,2215,38,47,21.6,2.4,21.6,43.8],"rD_shin":[1674,2215,49,45,21.8,3.7,33.6,41.7],"skClub":[1725,2215,102,42,3.5,24.2,98.1,19.7],"gbKnife":[1829,2215,138,42,3.0,17.2,130.5,10.1],"rC_fore":[0,2301,98,42,4.3,16.7,90.3,19.9],"rB_knife":[100,2301,109,28,3.7,12.1,101.7,14.2]},ART=new Image(),ARTOK=false;ART.src='art/atlas.webp?v=7';
 function aspr(k){return ATLAS[k];}
 // draw a limb image so that its end points land on A and B
 function seg(g,k,ax,ay,bx,by,ext){var a=ATLAS[k];if(!a||!ARTOK)return;var x0=a[4],y0=a[5],x1=a[6],y1=a[7],L0=Math.hypot(x1-x0,y1-y0),L=Math.hypot(bx-ax,by-ay)||0.01,s=L/L0*(ext||1);
@@ -286,7 +287,7 @@ function sprDef(g,k,x,y,h,fx,fy,lean,leg,ph,wob){var a=ATLAS[k];if(!a||!ARTOK)re
 function tube(g,ax,ay,bx,by,w,col){g.lineCap='round';g.strokeStyle='#2b2620';g.lineWidth=w+1.6;g.beginPath();g.moveTo(ax,ay);g.lineTo(bx,by);g.stroke();g.strokeStyle=col;g.lineWidth=w;g.stroke();}
 var HEADS={wolfHead:[30,0.45,0.6],batHead:[30,0.5,0.6],plantHead:[33,0.45,0.6],drakeHead:[27,0.4,0.6]};
 var CORES={golemCore:16,slimeCore:15,drakeScales:20};
-function drawBody(g,p,P,st,u){if(!u&&START_ART[st]){var SA=START_ART[st];drawArt(g,p,SA[0],SA[1],st==='pebble',st==='hatch');return;}if(u&&FORMS[u]&&!FORMS[u].ult){drawForm(g,p,u);return;}if(u){drawUlt(g,p,u,false);return;}if(st==='beast'){drawQuad(g,p,P);return;}if(st==='slime'){drawSlime(g,p,P);return;}drawHumanoid(g,p,P,st);}
+function drawBody(g,p,P,st,u){if(!u&&st==='goblin'){drawRig(g,p,'B',60);return;}if(!u&&START_ART[st]){var SA=START_ART[st];drawArt(g,p,SA[0],SA[1],st==='pebble',st==='hatch');return;}if(u&&FORMS[u]&&!FORMS[u].ult){drawForm(g,p,u);return;}if(u){drawUlt(g,p,u,false);return;}if(st==='beast'){drawQuad(g,p,P);return;}if(st==='slime'){drawSlime(g,p,P);return;}drawHumanoid(g,p,P,st);}
 function shadow(g,w){g.fillStyle='rgba(0,0,0,.35)';g.beginPath();g.ellipse(0,0,w,4,0,0,7);g.fill();}
 function wingsArt(g,x,y,glide,ground,sc){var fl=glide?0.15:Math.sin(performance.now()/90)*0.35*(ground?0.3:1);sc=sc||1;
   spr(g,'batWing',x+3,y,24*sc,0.9,0.3,-0.25-fl,1,1);spr(g,'batWing',x,y-2,26*sc,0.9,0.3,0.1+fl*0.6,1,1);}
@@ -317,6 +318,22 @@ function drawHumanoid(g,p,P,st){var h=62,wk=p.walk||0,run=p.ground?Math.sin(wk*2
   if(P.core)spr(g,P.core,1,shY+7,CORES[P.core],0.5,0.5);
   if(P.head)headArt(g,P.head,2,headY);else if(gob)spr(g,'gbHead',2,headY+2,22,0.5,0.6);else spr(g,'skSkull',2,headY+1,27,0.5,0.62);
   arm(1);g.restore();}
+var RIGS={A:{head:['rA_head',27],torso:['rA_torso',31],arm:'rA_arm',arm2:'rA_arm2',thigh:'rA_thigh',shin:'rA_shin'},
+ B:{head:['rB_head',22],torso:['rB_torso',22],upper:'rB_upper',fore:'rB_fore',thigh:'rB_thigh',shin:'rB_shin',knife:'rB_knife'},
+ C:{head:['rC_head',23],torso:['rC_torso',27],upper:'rC_upper',fore:'rC_fore',thigh:'rC_thigh',shin:'rC_shin',bow:'rC_bow'},
+ D:{head:['rD_head',26],torso:['rD_torso',29],upper:'rD_upper',fore:'rD_fore',thigh:'rD_thigh',boot:'rD_shin'}};
+function drawRig(g,p,id,H){var Rg=RIGS[id],wk=p.walk||0,mv=Math.min(1,Math.abs(p.vx||0)/120);p._mv=(p._mv||0)+(mv-(p._mv||0))*0.15;mv=p._mv;
+  var t=performance.now()/1000,run=p.ground?Math.sin(wk*2)*mv:0.6,sw=p.swing>0?1-p.swing/0.2:0,bob=p.ground?(1-Math.cos(wk*4))*0.6*mv+Math.sin(t*2.2)*0.4*(1-mv):0;
+  g.save();g.translate(p.x,p.y);g.scale(p.face*(H/66),H/66);shadow(g,15);g.translate(0,-bob);var hipY=-25,shY=-42,headY=-55;
+  function leg(i){var s=i?1:-1,a=run*0.65*s,kx=Math.sin(a)*11,ky=hipY+11,fx=kx+Math.sin(a-0.5)*10,fy=bob;if(!p.ground){kx=i?7:-3;ky=hipY+9;fx=kx-4;fy=hipY+22;}
+    if(Rg.boot){seg(g,Rg.thigh,i?1:-1,hipY,kx,ky);seg(g,Rg.thigh,kx,ky,fx+1,fy-5);spr(g,Rg.boot,fx+2,fy+1,10,0.45,0.95);return;}seg(g,Rg.thigh,i?1:-1,hipY,kx,ky);seg(g,Rg.shin,kx,ky,fx+2,fy);}
+  var swingA=p.swing>0?(-1.9+sw*3.0):Math.sin(wk*2)*0.45*mv+Math.sin(t*2.2)*0.05;
+  function arm(i){var sx=i?2:-2,sy=shY,a=i?swingA:-swingA*0.6+0.25;
+    if(Rg.arm){var k=i?Rg.arm2:Rg.arm;seg(g,k,sx,sy,sx+Math.sin(a+0.3)*19,sy+Math.cos(a+0.3)*19);return;}
+    var ex=sx+Math.sin(a)*10,ey=sy+Math.cos(a)*10,hx=ex+Math.sin(a+0.6)*12,hy=ey+Math.cos(a+0.6)*12;seg(g,Rg.upper,sx,sy,ex,ey);seg(g,Rg.fore,ex,ey,hx,hy);
+    if(i&&Rg.knife){var an=a+0.6;seg(g,Rg.knife,hx,hy,hx+Math.sin(an+1.3)*15,hy+Math.cos(an+1.3)*15);}
+    if(i&&Rg.bow)spr(g,Rg.bow,hx,hy,34,0.5,0.5,0.1);}
+  arm(0);leg(0);leg(1);spr(g,Rg.torso[0],0,shY-5,Rg.torso[1],0.5,0.04);spr(g,Rg.head[0],2,headY+Math.sin(t*2.2)*0.4,Rg.head[1],0.5,0.6);arm(1);g.restore();}
 function drawSlime(g,p,P){var t=performance.now()/1000,wk=p.walk||0,lift=P.legs?14:0;g.save();g.translate(p.x,p.y);g.scale(p.face,1);shadow(g,18);
   if(P.legs==='plantLegs')spr(g,'plantRoots',0,-15,18,0.5,0.05);
   else if(P.legs==='wolfLegs'){var r=p.ground?Math.sin(wk*2)*0.5:0.4;seg(g,'wolfLeg',-5,-16,-5+Math.sin(r)*10,0);seg(g,'wolfLeg',5,-16,5-Math.sin(r)*10,0);}
@@ -340,7 +357,7 @@ function animSprite(g,p,art,h,fx,fy,quad,t,wk){var mv=Math.min(1,Math.abs(p.vx||
   p._mv=(p._mv||0)+(mv-(p._mv||0))*0.12;mv=p._mv;
   var bob=p.ground?(1-Math.cos(wk*(quad?4.4:3.6)))*0.5*(quad?2:1.6)*mv+Math.sin(t*2.2)*0.6*(1-mv):0,br=1+Math.sin(t*2.2)*0.012*(1-mv);
   g.translate(sw*h*0.06,-bob);if(p.landT>0){var lk=p.landT/0.14;g.scale(1+0.05*lk,1-0.05*lk);}
-  g.scale(1+sw*0.03,br);spr(g,art,0,1,h,fx,fy);}function drawForm(g,p,id){var F=FORMS[id];drawArt(g,p,F.art,F.h,id.indexOf('sl')===0,id.indexOf('bs')===0||id.indexOf('dr')===0);}
+  g.scale(1+sw*0.03,br);spr(g,art,0,1,h,fx,fy);}function drawForm(g,p,id){var F=FORMS[id];if(F.rig){drawRig(g,p,F.rig,F.h);return;}drawArt(g,p,F.art,F.h,id.indexOf('sl')===0,id.indexOf('bs')===0||id.indexOf('dr')===0);}
 function drawArt(g,p,art,h,sl,quad){var F={art:art,h:h},t=performance.now()/1000,wk=p.walk||0;g.save();g.translate(p.x,p.y);g.scale(p.face,1);
   var a=ATLAS[F.art];shadow(g,Math.min(36,F.h*(a?a[2]/a[3]:1)*0.42));
   if(sl){var q=!p.ground?(p.vy<0?1.18:0.95):p.landT>0?0.72:1+Math.sin(t*6+wk*3)*0.06;p._q=(p._q||1)+(q-(p._q||1))*0.25;g.scale(1/p._q,p._q);spr(g,F.art,0,1,F.h,0.5,1);}

diff --git a/bone-to-beast/src/pack.py b/bone-to-beast/src/pack.py
@@ -20,6 +20,12 @@ M.update(NEW)
 MID={'fmSlBloom':'m1_00','fmSlIron':'m1_01','fmSlGhost':'m1_02','fmSkSpear':'m1_03','fmSkHeavy':'m1_04','fmSkCount':'m1_05','fmGbArcher':'m1_10','fmGbGeneral':'m1_11','fmGbSorc':'m1_12','fmBsWolf':'m1_13','fmBsLion':'m1_14','fmBsDrag':'m1_15',
 'fmPlPriest':'m2_00','fmPlWarrior':'m2_01','fmPlQueen':'m2_02','fmBtButter':'m2_03','fmBtGarg':'m2_04','fmBtVamp':'m2_05','fmDrYoung':'m2_10','fmDrRock':'m2_11','fmDrBlack':'m2_12','fmGlMoss':'m2_13','fmGlSteel':'m2_14','fmGlAmethyst':'m2_15'}
 M.update(MID)
+
+RIGP={'rA_head':('pr_00',None),'rA_torso':('pr_01',None),'rA_arm':('pr_02','tr'),'rA_arm2':('pr_03','tr'),'rA_thigh':('pr_04','tb'),'rA_shin':('pr_05','tb'),
+'rB_head':('pr_06',None),'rB_knife':('pr_07','lr'),'rB_torso':('pr_08',None),'rB_upper':('pr_09','tbr'),'rB_fore':('pr_10','lr'),'rB_thigh':('pr_11','tb'),'rB_shin':('pr_12','tb'),
+'rC_head':('pr_13',None),'rC_torso':('pr_14',None),'rC_upper':('pr_15','tb'),'rC_fore':('pr_16','lr'),'rC_thigh':('pr_17','tb'),'rC_shin':('pr_18','tb'),'rC_bow':('pr_19',None),
+'rD_head':('pr_20',None),'rD_torso':('pr_21',None),'rD_upper':('pr_22','tb'),'rD_fore':('pr_23','lr'),'rD_thigh':('pr_24','tb'),'rD_shin':('pr_25','tb')}
+for k,(f,m) in RIGP.items(): M[k]=f
 SC=0.8
 ims={}
 EV=['fSlGrass','fSlRock','fSlZombie','fSlDeath','fSkMoss','fSkWraith','fSkKnight','fSkSteel','fSkVamp',None,'fGbForest','fGbDruid','fGbHob','fGbKing','fGbShaman','fGbDemon','fBsForest','fBsSacred','fBsRock','fBsFire']
@@ -30,7 +36,7 @@ for k,f in M.items():
   m=a[...,3]>128;m2=ndimage.binary_erosion(m,iterations=1)
   a[...,3]=np.where(m2,a[...,3],(a[...,3]*0.35).astype(np.uint8))
   im=Image.fromarray(a);im=im.crop(im.getbbox())
-  s=1.0 if (k.startswith('f') or k.startswith('st')) else SC
+  s=1.0 if (k.startswith('f') or k.startswith('st') or k.startswith('r')) else SC
   im=im.resize((max(1,round(im.width*s)),max(1,round(im.height*s))),Image.LANCZOS);ims[k]=im
 # segment endpoints via PCA
 def ends(im,leftfirst=False):
@@ -53,5 +59,16 @@ for k in ims:A.paste(ims[k],tuple(pos[k][:2]))
 A.save('/home/claude/hmsu-tools/bone-to-beast/art/atlas.webp',quality=88,method=6)
 seg={'skUpper':0,'skFore':0,'skThigh':0,'skShin':0,'gbFore':0,'gbShin':0,'wolfLeg':0,'wolfArm':0,'golemFist':1,'goblinArm':1,'plantVine':1,'skClub':1,'gbKnife':1,'bsFrontU':0,'bsFrontL':0,'bsBackU':0,'bsBackL':0}
 for k,lf in seg.items():pos[k]+=ends(ims[k],lf==1)
+def ends2(im,mode):
+  a=np.array(im)[...,3]>100;ys,xs=np.nonzero(a);P=np.stack([xs,ys],1).astype(float)
+  def ext(v,hi=True):
+    q=np.quantile(v,0.97 if hi else 0.03);sel=P[v>=q] if hi else P[v<=q];return sel.mean(0)
+  if mode=='tb':p0=ext(ys,False);p1=ext(ys,True)
+  elif mode=='lr':p0=ext(xs,False);p1=ext(xs,True)
+  elif mode=='tr':p0=ext(ys,False);p1=ext(xs,True)
+  else:p0=ext(ys,False);p1=ext(xs+ys,True)
+  return [round(p0[0],1),round(p0[1],1),round(p1[0],1),round(p1[1],1)]
+for k,(f,m) in RIGP.items():
+  if m:pos[k]+=ends2(ims[k],m)
 open('atlas.json','w').write(json.dumps(pos,separators=(',',':')));print(W,H)
 import os;print(os.path.getsize('/home/claude/hmsu-tools/bone-to-beast/art/atlas.webp'))
